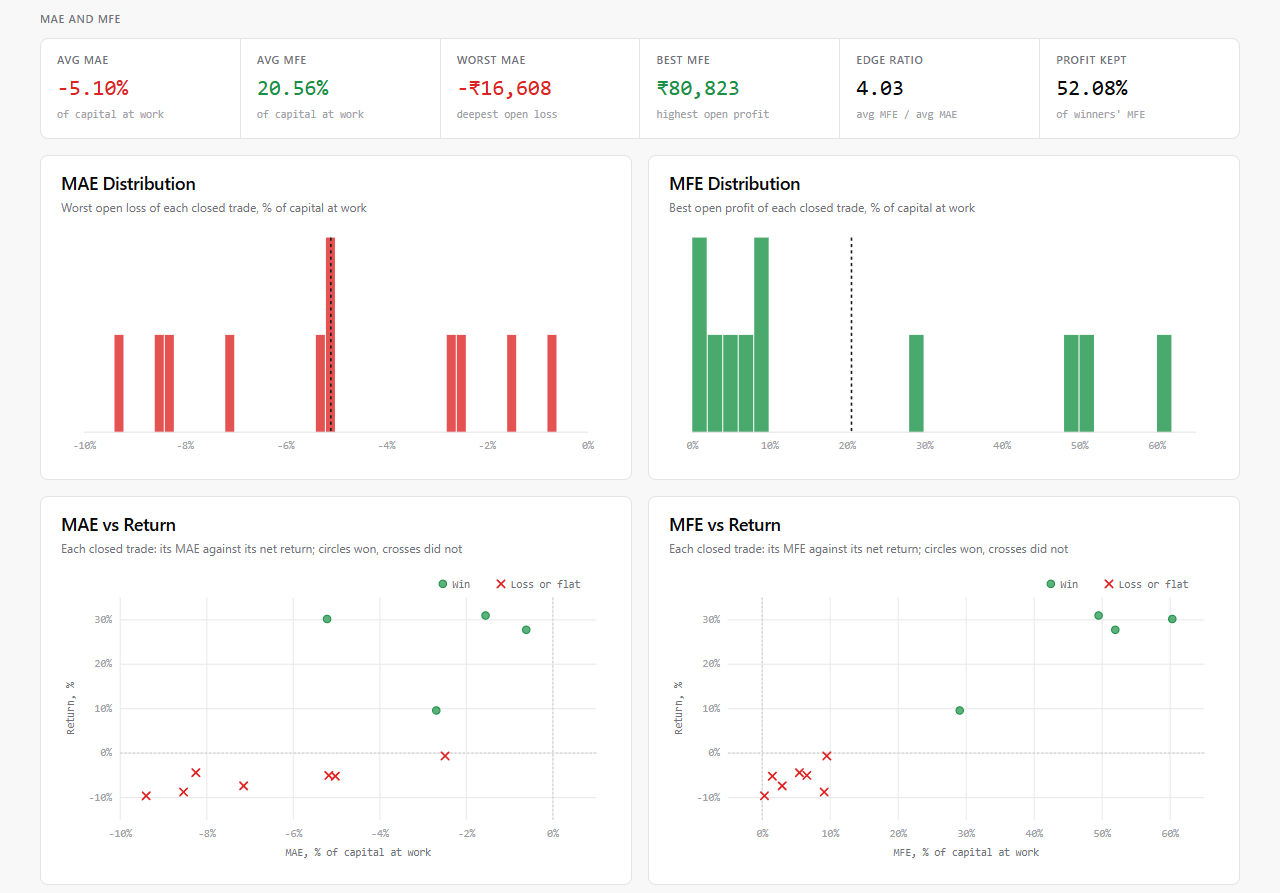
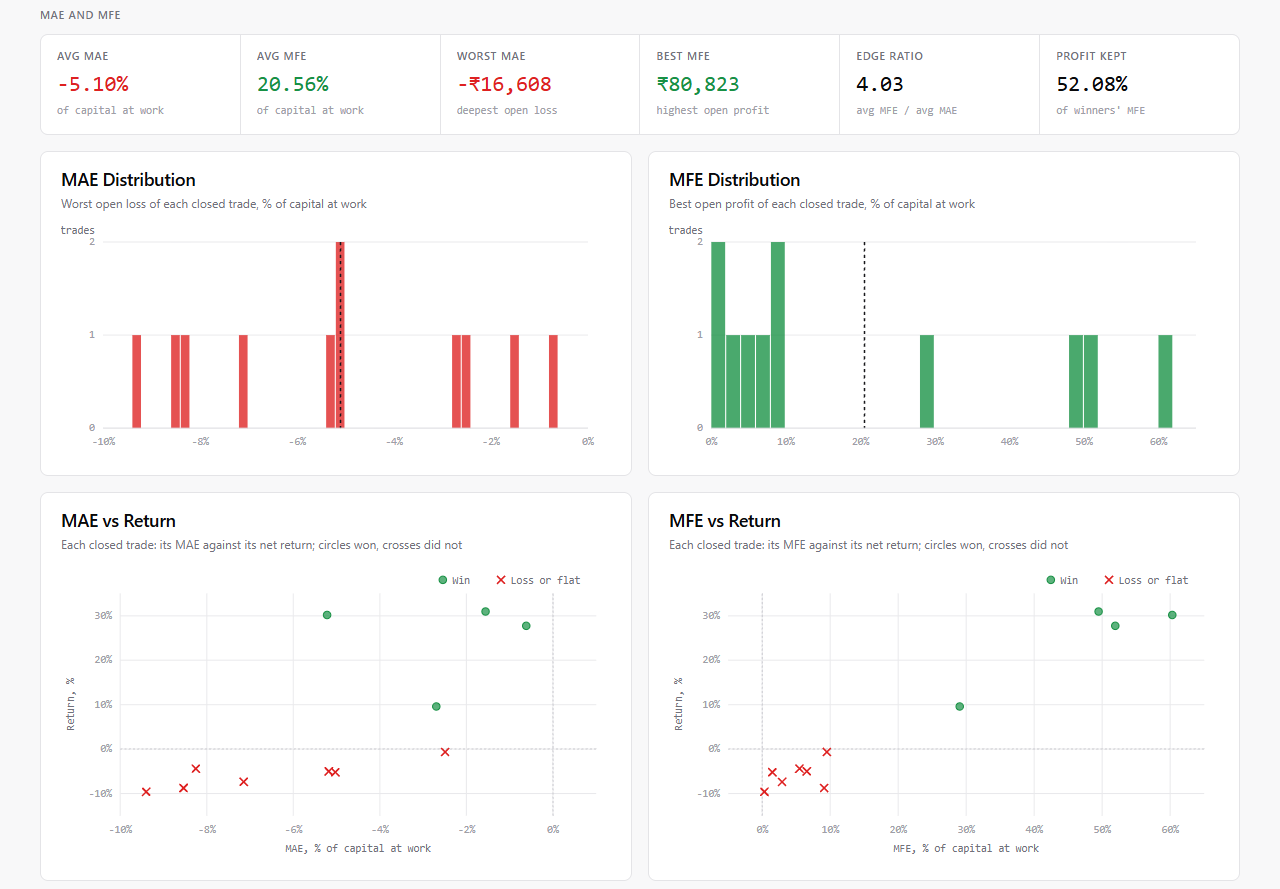
Python docs: the tearsheet's new trade list, histograms and overfitting section
Regenerated from the SBIN EMA 20/50 run (benchmark NIFTY) with the
merged SDK: the trade list, whose times now wrap between the date and
the time, so every column fits a 1280 px window (measured: the table is
1,158 px in a 1,158 px frame, Exit Reason from 1,138 to 1,219 px; it
scrolls below about 1,220 px), and the MAE and MFE block, whose
histograms now have a count axis. New: a screenshot of the Overfitting
checks section beside its text. The prose no longer says to scroll the
trade list sideways in the picture, reads the histograms' axis, and
points the overfitting section to the Robustness page.

Claude-Session: https://claude.ai/code/session_017rzcGvTmmTpXZ4JeaauUmx

diff --git a/trading-platform/python/backtesting/tearsheet.md b/trading-platform/python/backtesting/tearsheet.md
@@ -159,7 +159,7 @@ The **Trading Cost** row puts the two costs of trading side by side. A tile show
 * **Cost / gross P&L** (7.04 percent): the share of the profit before charges that the trading cost took.
 * **Cost / turnover** (14.2 basis points; a basis point is 0.01 percent): Rs 142 of cost on every Rs 1,00,000 bought or sold. A trade pays it on its buy and on its sell, so it has to move about 0.28 percent just to pay its way. Watch this tile for a strategy that trades often.
 
-<figure><img src="../../../.gitbook/assets/backtest-tearsheet-mae-mfe.png" alt="The MAE and MFE block: six tiles (average MAE -5.10 percent, average MFE 20.56 percent, worst MAE Rs -16,608, best MFE Rs 80,823, edge ratio 4.03 and profit kept 52.08 percent), a red histogram of each trade's MAE and a green histogram of each trade's MFE in percent of capital at work, and two scatter charts of MAE and of MFE against each trade's return, with winners as green circles and the other trades as red crosses"><figcaption><p>Trades: how far each trade went against you and in your favour</p></figcaption></figure>
+<figure><img src="../../../.gitbook/assets/backtest-tearsheet-mae-mfe.png" alt="The MAE and MFE block: six tiles (average MAE -5.10 percent, average MFE 20.56 percent, worst MAE Rs -16,608, best MFE Rs 80,823, edge ratio 4.03 and profit kept 52.08 percent), a red histogram of each trade's MAE and a green histogram of each trade's MFE in percent of capital at work, with the number of trades on the left axis, and two scatter charts of MAE and of MFE against each trade's return, with winners as green circles and the other trades as red crosses"><figcaption><p>Trades: how far each trade went against you and in your favour</p></figcaption></figure>
 
 While a trade is open, its profit rises and falls. **MAE** (maximum adverse excursion) is the worst it stood at: its deepest open loss, before charges, zero or negative. **MFE** (maximum favourable excursion) is the best: its highest open profit, zero or positive. Only prices the trade could have seen count: the high and low of each day it was held through, and its own fill prices. The percents are of the trade's capital at work: its entry price times the most shares it held.
 
@@ -173,13 +173,13 @@ The six tiles:
 
 The four charts show each trade:
 
-* **MAE Distribution** and **MFE Distribution** count the trades by their MAE and by their MFE; the dashed line is the average. Here no trade went more than 9.40 percent against, and seven of the 11 never got more than 10 percent ahead while four ran 29 to 60 percent ahead.
+* **MAE Distribution** and **MFE Distribution** count the trades by their MAE and by their MFE: the height of each bar, read on the axis at the left, is the number of trades in its range, and the dashed line is the average. Here no trade went more than 9.40 percent against, and seven of the 11 never got more than 10 percent ahead while four ran 29 to 60 percent ahead.
 * **MAE vs Return** puts each trade's MAE across and its return up: a green circle is a winner, a red cross a loser (or a flat trade). Read it against your stop-loss. A loser whose MAE is much deeper than its stop says the stop is not where the trades end: the price gapped through it and the exit filled beyond it, or (for an option or a GTT) the stop's limit order did not fill. A winner far to the left says a tighter stop would have cut it: trade 9 was 5.22 percent down at one point and still made 30.19 percent, so a stop closer than about 5 percent would have stopped it out. This strategy has no stop-loss, and most of its losers closed near their MAE, when the EMAs crossed back. The return is after charges and the MAE before them, so a loser that closed at its worst returned a little less than its MAE: trade 2 was 8.54 percent down at worst and returned -8.76 percent.
 * **MFE vs Return** puts each trade's MFE across and its return up. A winner that gave back most of its MFE says the exits are late. Here trades 1, 7 and 9 were 49 to 60 percent up at their best but closed 28 to 31 percent up: the crossover exit waits for the fast EMA to cross back, and they gave back a third to a half of each large rise. Trade 4 gave back the largest share: it was 29.05 percent up at its best and closed 9.59 percent up, about two thirds of its MFE gone. A target or a trailing stop ([Stop-Loss and Target](tutorial/03-stop-loss-and-target.md)) is the usual way to keep more of it.
 
-<figure><img src="../../../.gitbook/assets/backtest-tearsheet-trade-list.png" alt="The Trade List: one row per closed trade with its entry and exit times, quantity, entry and exit price, gross P&L, charges, net P&L, return, MAE and MFE in rupees, and bars and days held; the exit reason column starts at the right edge"><figcaption><p>Trades: the trade list, with each trade's MAE and MFE</p></figcaption></figure>
+<figure><img src="../../../.gitbook/assets/backtest-tearsheet-trade-list.png" alt="The Trade List: one row per closed trade with its entry and exit times, each written as the date over the time, quantity, entry and exit price, gross P&L, charges, net P&L, return, MAE and MFE in rupees, bars and days held, and the exit reason signal in the last column"><figcaption><p>Trades: the trade list, with each trade's MAE and MFE</p></figcaption></figure>
 
-The **Trade List** has one row per closed trade, the same rows as `result.trade_list()`: when each trade was bought and sold (in IST), the quantity, the prices, the profit before charges (gross P&L), the charges, the profit after them (net P&L), the return, the MAE and MFE in rupees, how long it was held in bars and in days, and why it closed (`signal` is the strategy's own `self.exit()`). On a screen too narrow for every column, as in the picture, scroll the table sideways to reach the exit reason. Click a column heading to sort the trades by it, for example by net P&L to see the best and worst trades first, or by MAE to see the deepest open losses. A long list is split into pages; Prev and Next at the bottom move between them.
+The **Trade List** has one row per closed trade, the same rows as `result.trade_list()`: when each trade was bought and sold (in IST), the quantity, the prices, the profit before charges (gross P&L), the charges, the profit after them (net P&L), the return, the MAE and MFE in rupees, how long it was held in bars and in days, and why it closed (`signal` is the strategy's own `self.exit()`). Each time is written as the date over the time, so in a window 1,280 pixels wide, as in the picture, every column fits, the exit reason included. On a narrower screen, scroll the table sideways to reach the last columns. Click a column heading to sort the trades by it, for example by net P&L to see the best and worst trades first, or by MAE to see the deepest open losses. A long list is split into pages; Prev and Next at the bottom move between them.
 
 <figure><img src="../../../.gitbook/assets/backtest-tearsheet-charges.png" alt="The Charges table: brokerage, STT, exchange transaction charge, SEBI fee, stamp duty, GST, the DP charge and the contract-note rounding, each in rupees and as a share of the total, then the total charges Rs 3,322.91, the slippage in fill prices Rs 706.85, the trading cost Rs 4,029.76, gross P&L, net P&L and charges as a share of gross P&L"><figcaption><p>Trades: the charges, item by item</p></figcaption></figure>
 
@@ -189,9 +189,11 @@ When a strategy opens trades with a stop-loss, this section also has an **R-mult
 
 ## Overfitting checks
 
+<figure><img src="../../../.gitbook/assets/backtest-tearsheet-overfitting.png" alt="The Overfitting checks section: the Quick checks card with 0 passed, 0 failed, 4 not judged, how to read the checks, the line Too few trades to judge: 11 closed trades; the checks need 30 to judge, and a table of the four checks (random out of sample, trade reshuffle, trade resample and variance) with each one's question, figure n/a, rule and verdict not judged"><figcaption><p>Overfitting checks: the quick checks of the closed trades</p></figcaption></figure>
+
 This section comes after Trades, in the full report and in `mode="basic"`. It shows the four quick checks of the closed trades: random out of sample, trade reshuffle, trade resample and variance, each with its figure, its rule and its verdict, a count of how many passed, failed or could not be judged, and a few lines on how to read them. [Overfitting checks](results-and-reports.md#overfitting-checks) explains each check.
 
-The checks need at least 30 closed trades. This run closed 11, so the section says "Too few trades to judge: 11 closed trades; the checks need 30 to judge" and judges nothing. Run a strategy with more trades to see the verdicts. A failed check means the edge did not hold up under it, not that the strategy is proven overfitted.
+The checks need at least 30 closed trades. This run closed 11, so the section says "Too few trades to judge: 11 closed trades; the checks need 30 to judge" and judges nothing. Run a strategy with more trades to see the verdicts. A failed check means the edge did not hold up under it, not that the strategy is proven overfitted. The line at the end of the section points to `result.robustness()`, the full set of seventeen checks with their own HTML report: see [Robustness and Overfitting](robustness.md).
 
 ## Notes
 
